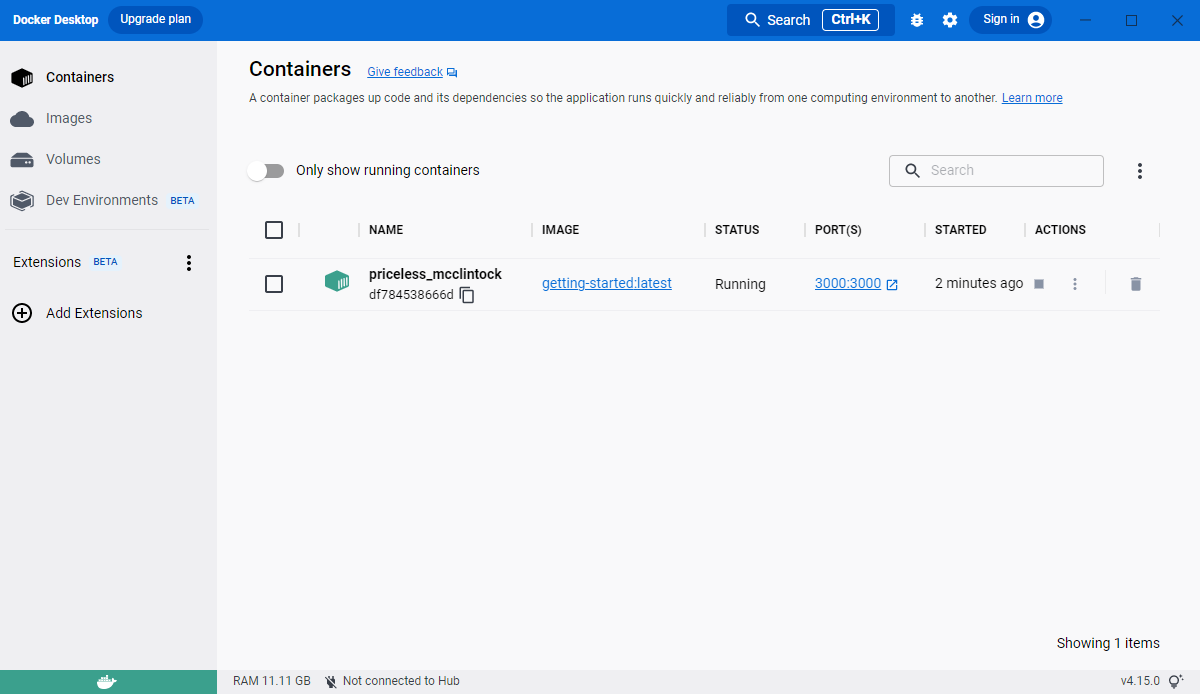
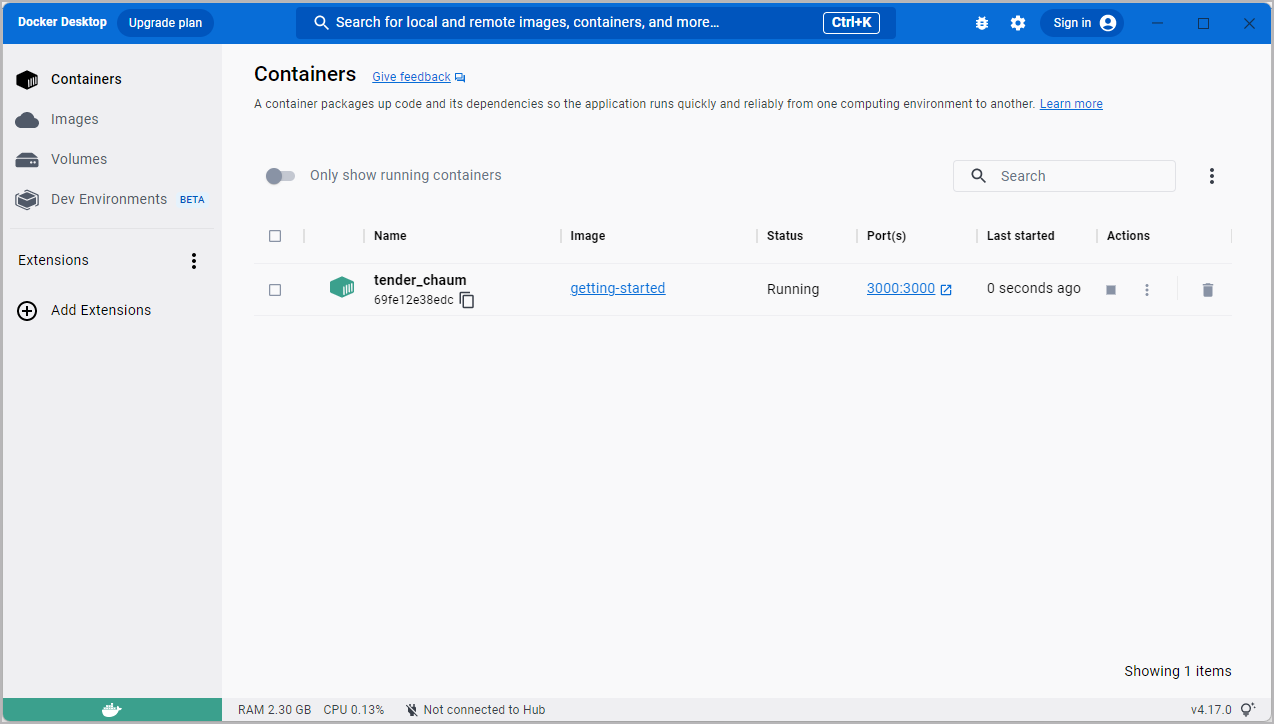
Add cli option to get started part 2 (#16807)
* add cli option to get start part 2

diff --git a/get-started/02_our_app.md b/get-started/02_our_app.md
@@ -135,9 +135,37 @@ Now that you have an image, you can run the application in a [container](../get-
 
 At this point, you should have a running todo list manager with a few items, all built by you.
 
-If you take a quick look at your Docker Dashboard, you should see at least one container running that is using the `getting-started` image and on port `3000`.
+If you take a quick look at your containers, you should see at least one container running that is using the `getting-started` image and on port `3000`. To see your containers, you can use the CLI or Docker Desktop's graphical interface.
 
-![Docker Dashboard with tutorial and app containers running](images/dashboard-two-containers.png)
+   <ul class="nav nav-tabs">
+     <li class="active"><a data-toggle="tab" data-target="#cli">CLI</a></li>
+     <li><a data-toggle="tab" data-target="#gui">Docker Desktop</a></li>
+   </ul>
+   <div class="tab-content">
+   <div id="cli" class="tab-pane fade in active" markdown="1">
+
+Run the following `docker ps` command in a terminal to list your containers.
+
+```console
+$ docker ps
+```
+Output similar to the following should appear.
+```console
+CONTAINER ID        IMAGE               COMMAND                  CREATED             STATUS              PORTS                    NAMES
+df784548666d        getting-started     "docker-entrypoint.s…"   2 minutes ago       Up 2 minutes        0.0.0.0:3000->3000/tcp   priceless_mcclintock
+```
+
+<hr>
+</div>
+<div id="gui" class="tab-pane fade" markdown="1">
+
+In Docker Desktop, select the **Containers** tab to see a list of your containers.
+
+![Docker Desktop with get-started container running](images/dashboard-two-containers.png)
+
+<hr>
+</div>
+</div>
 
 ## Next steps
 
